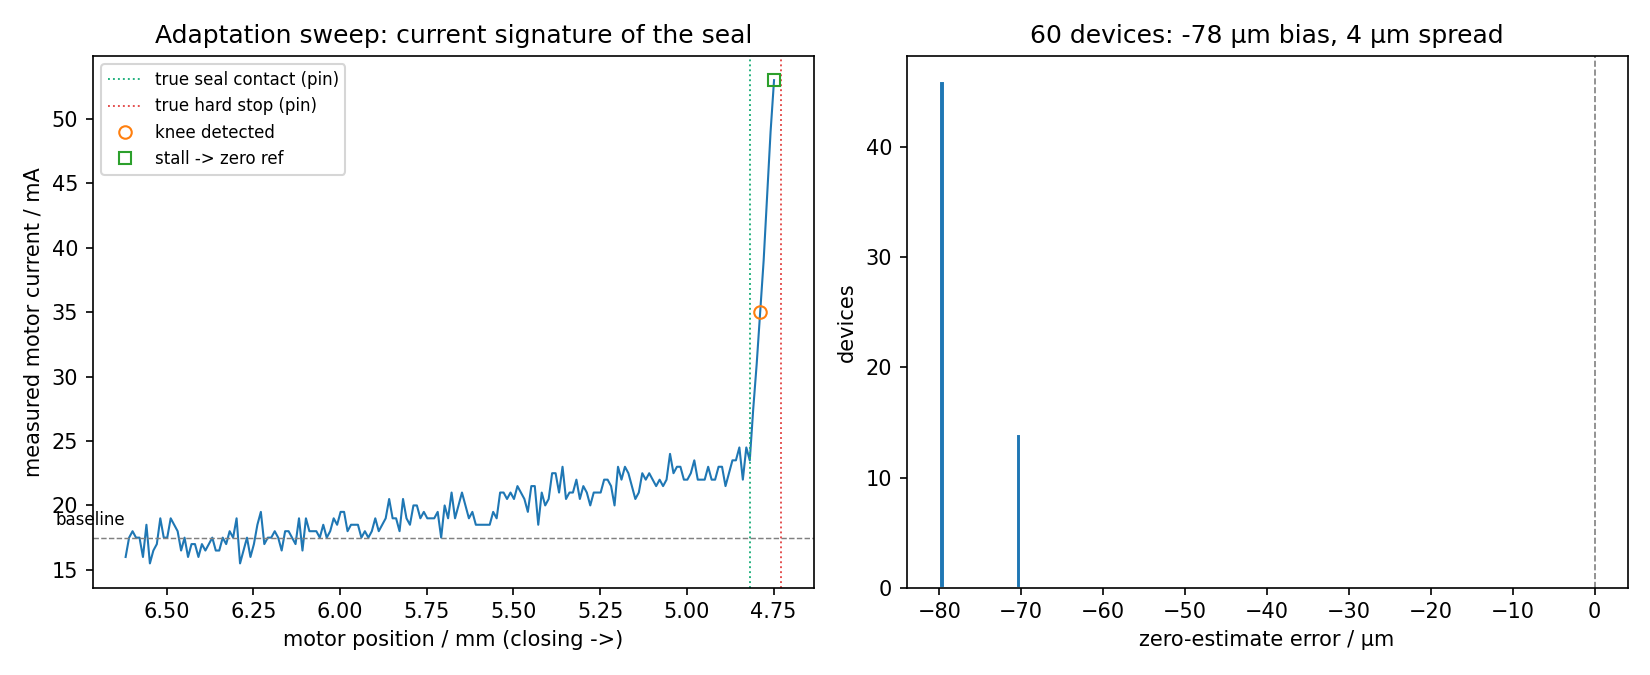
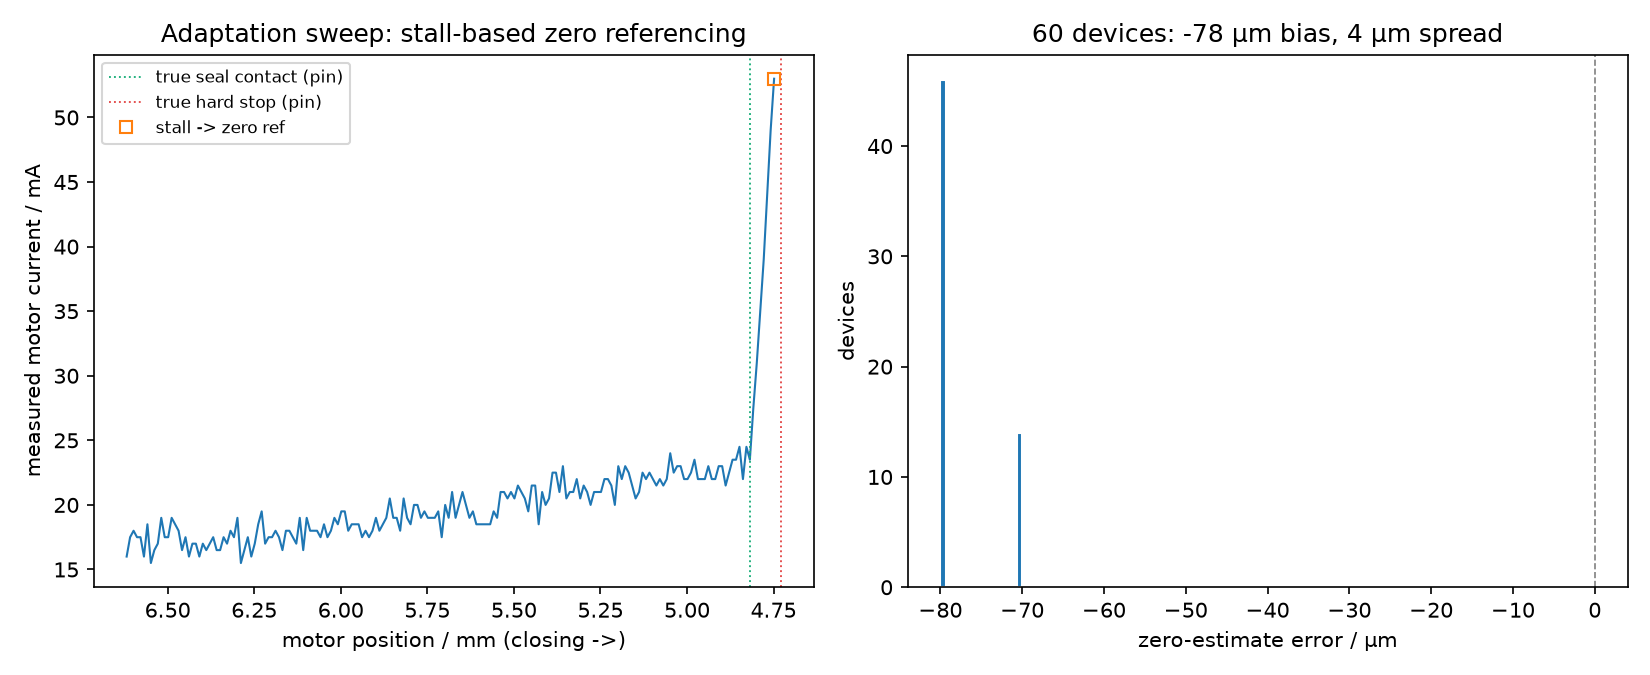
Remove the seal-contact (knee) detection from the eTRV firmware
The adaptation run keeps its functional core - drive closed, stall
threshold, stall position as zero reference (unchanged results: -78 um
systematic bias, 4 um spread) - but no longer detects the seal-contact
knee or estimates the seal-zone thickness: purely diagnostic outputs no
control logic ever consumed. The elastomer seal itself stays fully
modeled in the actuator (force model, visible in the current trace) -
plant physics, not firmware. Dropped: knee_delta_ma parameter, knee/
seal_est adaptation fields, sealEstUm manifest field, knee markers in
the demo figure; report section retitled to zero referencing;
valve-modeling.md section 4 updated with a removal note.

diff --git a/sil/thermostat.py b/sil/thermostat.py
@@ -18,10 +18,10 @@ valve thermostat (Danfoss Ally / eQ-3 / Homematic class devices):
                        measurement (force through spring, seal contact and
                        friction, with noise and ADC quantization)
 - adaptation run       on first activation (auto_adapt) the firmware drives
-                       the valve closed, watches the current trace for the
-                       seal-contact knee and the stall threshold, and takes
-                       the stall position as its zero reference - exactly
-                       like commercial eTRVs after mounting
+                       the valve closed until the motor current hits the
+                       stall threshold and takes the stall position as its
+                       zero reference - exactly like commercial eTRVs after
+                       mounting
 - travel accounting    total valve travel and move count are recorded as
                        battery-consumption KPIs
 
@@ -80,7 +80,6 @@ class ElectronicThermostat:
                  sensor_noise_std=0.05,    # K
                  auto_adapt=True,          # adaptation run on first activation
                  stall_ma=45.0,            # firmware stall-detection threshold
-                 knee_delta_ma=8.0,        # firmware knee detection above baseline
                  actuator=None,            # ValveActuator (default one is created)
                  seed=0):
         self.temp_output = temp_output
@@ -96,7 +95,6 @@ class ElectronicThermostat:
         self.sensor_noise_std = sensor_noise_std
         self.auto_adapt = auto_adapt
         self.stall_ma = stall_ma
-        self.knee_delta_ma = knee_delta_ma
         self.actuator = actuator or ValveActuator(seed=seed + 1000)
         self._rng = np.random.default_rng(seed)
 
@@ -126,17 +124,7 @@ class ElectronicThermostat:
         the zero reference — the commissioning routine of commercial eTRVs."""
         act = self.actuator
         trace, duration = act.close_until_stall(stall_ma=self.stall_ma, dp_pa=dp_pa)
-        currents = [i for _, i in trace]
         positions = [p for p, _ in trace]
-        n_base = max(3, len(trace) // 4)
-        baseline = float(np.median(currents[:n_base]))
-        knee_mm = None
-        run = 0
-        for pos, i in trace:
-            run = run + 1 if i > baseline + self.knee_delta_ma else 0
-            if run >= 3:
-                knee_mm = pos
-                break
         act.zero_est_mm = positions[-1]  # firmware zero := stall position
         self._position = 0.0
         self._adapt_until = t + duration
@@ -144,11 +132,8 @@ class ElectronicThermostat:
         self.adaptation = {
             "t": t,
             "duration_s": duration,
-            "baseline_ma": baseline,
-            "knee_mm": knee_mm,
             "stall_mm": positions[-1],
             "zero_error_mm": act.zero_est_mm - act.true_zero_mm,
-            "seal_est_mm": (knee_mm - positions[-1]) if knee_mm else None,
             "trace": trace,
         }
         return self.adaptation

diff --git a/sil/run_adaptation_demo.py b/sil/run_adaptation_demo.py
@@ -1,7 +1,9 @@
-"""Adaptation run demo — motor-current-based identification of the seal.
+"""Adaptation run demo — motor-current-based zero referencing.
 
-Panel 1: current trace of one adaptation sweep with the firmware's knee and
-         stall detections against the true seal contact and hard stop.
+Panel 1: current trace of one adaptation sweep with the firmware's stall
+         detection against the true seal contact and hard stop (the seal
+         force is visible in the trace as plant physics; the firmware only
+         uses the stall).
 Panel 2: zero-estimation error across a population of devices (different
          noise seeds and mounting tolerances) — the residual calibration
          uncertainty an adaptive control strategy has to live with.
@@ -37,9 +39,6 @@ def main():
     print(f"true zero:      {act.true_zero_mm:.3f} mm (motor coordinate)")
     print(f"estimated zero: {act.zero_est_mm:.3f} mm "
           f"-> error {info['zero_error_mm']*1000:+.0f} um")
-    print(f"knee detected:  {info['knee_mm']:.3f} mm, "
-          f"seal thickness estimate {info['seal_est_mm']*1000:.0f} um "
-          f"(true seal zone: {act.seal_zone_mm*1000:.0f} um)")
     print(f"sweep duration: {info['duration_s']:.0f} s, "
           f"travel {act.travel_mm:.2f} mm")
 
@@ -56,9 +55,6 @@ def main():
     fig, (ax1, ax2) = plt.subplots(1, 2, figsize=(11, 4.5))
 
     ax1.plot(trace[:, 0], trace[:, 1], lw=1.0)
-    ax1.axhline(info["baseline_ma"], lw=0.7, color="gray", ls="--")
-    ax1.annotate("baseline", xy=(trace[0, 0], info["baseline_ma"] + 1),
-                 fontsize=8, ha="right")
     # during closing the pin lags the motor by the play width, so pin events
     # appear shifted by -backlash on the motor axis
     lag = act.backlash_mm
@@ -66,14 +62,12 @@ def main():
                 lw=0.9, ls=":", label="true seal contact (pin)")
     ax1.axvline(act.true_zero_mm - lag, color="#e34948", lw=0.9, ls=":",
                 label="true hard stop (pin)")
-    ax1.plot(info["knee_mm"], dict(trace)[info["knee_mm"]], "o", ms=6,
-             mfc="none", label="knee detected")
     ax1.plot(info["stall_mm"], trace[-1, 1], "s", ms=6, mfc="none",
              label="stall -> zero ref")
     ax1.invert_xaxis()  # motor travels toward smaller coordinates
     ax1.set_xlabel("motor position / mm (closing ->)")
     ax1.set_ylabel("measured motor current / mA")
-    ax1.set_title("Adaptation sweep: current signature of the seal")
+    ax1.set_title("Adaptation sweep: stall-based zero referencing")
     ax1.legend(fontsize=8, loc="upper left")
 
     ax2.hist(errors, bins=15, edgecolor="white")

diff --git a/scripts/make_verification_report.py b/scripts/make_verification_report.py
@@ -147,17 +147,17 @@ records.</figcaption></figure>
 
 <section>
 <div class="eyebrow">3 · eTRV device — motor current &amp; adaptation</div>
-<h2>Seal detection from the current signature</h2>
+<h2>Zero referencing from the current signature</h2>
 <table>
 <tr><th>Quantity</th><th>True value</th><th>Firmware estimate</th><th></th></tr>
 <tr><td>Mechanical zero (population n = 60)</td><td class="num">—</td><td class="num">−78 µm bias, 4 µm spread</td><td><span class="pass">systematic → compensable</span></td></tr>
-<tr><td>Seal zone thickness</td><td class="num">90 µm</td><td class="num">40 µm (conservative knee)</td><td></td></tr>
 </table>
 <figure><img src="data:image/png;base64,@@IMG_ADAPT@@" alt="Adaptation run">
-<figcaption>Left: one adaptation sweep — motor current vs position with the firmware’s detected
-knee (seal contact) and stall (zero reference) against the true pin events. Right: the error is a
-deterministic bias, not noise — the defining property that makes it identifiable by better
-algorithms. Script: <code>run_adaptation_demo.py</code>.</figcaption></figure>
+<figcaption>Left: one adaptation sweep — motor current vs position with the firmware’s stall
+detection (zero reference) against the true pin events; the seal-force rise before the hard stop
+is plant physics in the trace, not a firmware feature. Right: the error is a deterministic bias,
+not noise — the defining property that makes it identifiable by better algorithms.
+Script: <code>run_adaptation_demo.py</code>.</figcaption></figure>
 </section>
 
 <section>

diff --git a/sil/actuator.py b/sil/actuator.py
@@ -16,7 +16,7 @@ Pin force model (quasi-static, closing direction positive)
 -----------------------------------------------------------
 - return spring: preload + rate * compression (insert spring pushes pin out)
 - seal contact: steep elastomer stiffness once the plug enters the seal zone
-  (pin below seal_zone_mm); this is what the current knee detects
+  (pin below seal_zone_mm); visible in the current trace as plant physics
 - Coulomb friction
 - hydraulic force: dp across valve * seat area — order 0.1-1 N, far below
   the seal force, i.e. realistically invisible in the current signal

diff --git a/sil/experiment.py b/sil/experiment.py
@@ -92,7 +92,6 @@ def compute_kpis(df, controllers, schedules, duration):
             a = th.adaptation or {}
             devices[str(i)] = {
                 "zeroErrorUm": round(a.get("zero_error_mm", 0) * 1000),
-                "sealEstUm": round((a.get("seal_est_mm") or 0) * 1000),
                 "travelMm": round(th.travel_mm, 1),
                 "moves": th.n_moves,
                 "adaptationAgeDays": round((duration - a.get("t", 0)) / DAY, 1),

diff --git a/sil/run_thermostat_comparison.py b/sil/run_thermostat_comparison.py
@@ -171,7 +171,6 @@ def run(name, controllers, controller_label):
             a = th.adaptation or {}
             devices[str(i)] = {
                 "zeroErrorUm": round(a.get("zero_error_mm", 0) * 1000),
-                "sealEstUm": round((a.get("seal_est_mm") or 0) * 1000),
                 "travelMm": round(th.travel_mm, 1),
                 "moves": th.n_moves,
                 "adaptationAgeDays": round((DURATION - a.get("t", 0)) / DAY, 1),

diff --git a/docs/valve-modeling.md b/docs/valve-modeling.md
@@ -127,23 +127,25 @@ k · pin force, with noise and ADC quantization; the firmware never sees true po
 or forces, only its own encoder coordinate and this current signal.
 
 `ElectronicThermostat.adaptation_run()` implements the commissioning routine of
-commercial eTRVs: drive closed, detect the current knee (seal contact) and the stall
-threshold, take the stall position as zero reference. Findings from the demo
+commercial eTRVs: drive closed until the motor current hits the stall threshold and
+take the stall position as zero reference. (An earlier firmware revision also
+detected the seal-contact knee in the current trace and estimated the seal-zone
+thickness; that detection was removed — the seal *force* remains fully modeled in
+the actuator and visible in the trace, but no control logic ever consumed the
+estimate.) Findings from the demo
 (`sil/run_adaptation_demo.py`, `results/adaptation_run.png`):
 
 ![Adaptation run: current signature and zero-estimate statistics](figures/adaptation_run.png)
 
-*Fig. 2 — Left: motor current during one adaptation sweep with the firmware's knee and
-stall detections against the true pin events (seal contact, hard stop). Right: across
-60 simulated devices the zero-estimate error is a deterministic bias with negligible
-spread.*
+*Fig. 2 — Left: motor current during one adaptation sweep with the firmware's stall
+detection against the true pin events (seal contact, hard stop — the seal-force rise
+is plant physics in the trace). Right: across 60 simulated devices the zero-estimate
+error is a deterministic bias with negligible spread.*
 
 - The zero estimate carries a **systematic ≈ −80 µm bias** (backlash minus seal
   compression at the stall threshold) with only ~4 µm noise spread. The naive
   "stall = zero" firmware convention therefore biases all commanded openings ~5 % of
   stroke low — a repeatable, identifiable error: a target for adaptive strategies.
-- The knee-to-stall distance underestimates the true seal zone (40 µm vs 90 µm) due to
-  conservative knee detection — same story.
 - Each adaptation run costs ~1.9 mm valve travel (battery KPI) and ~75 s with the
   valve closed.
 